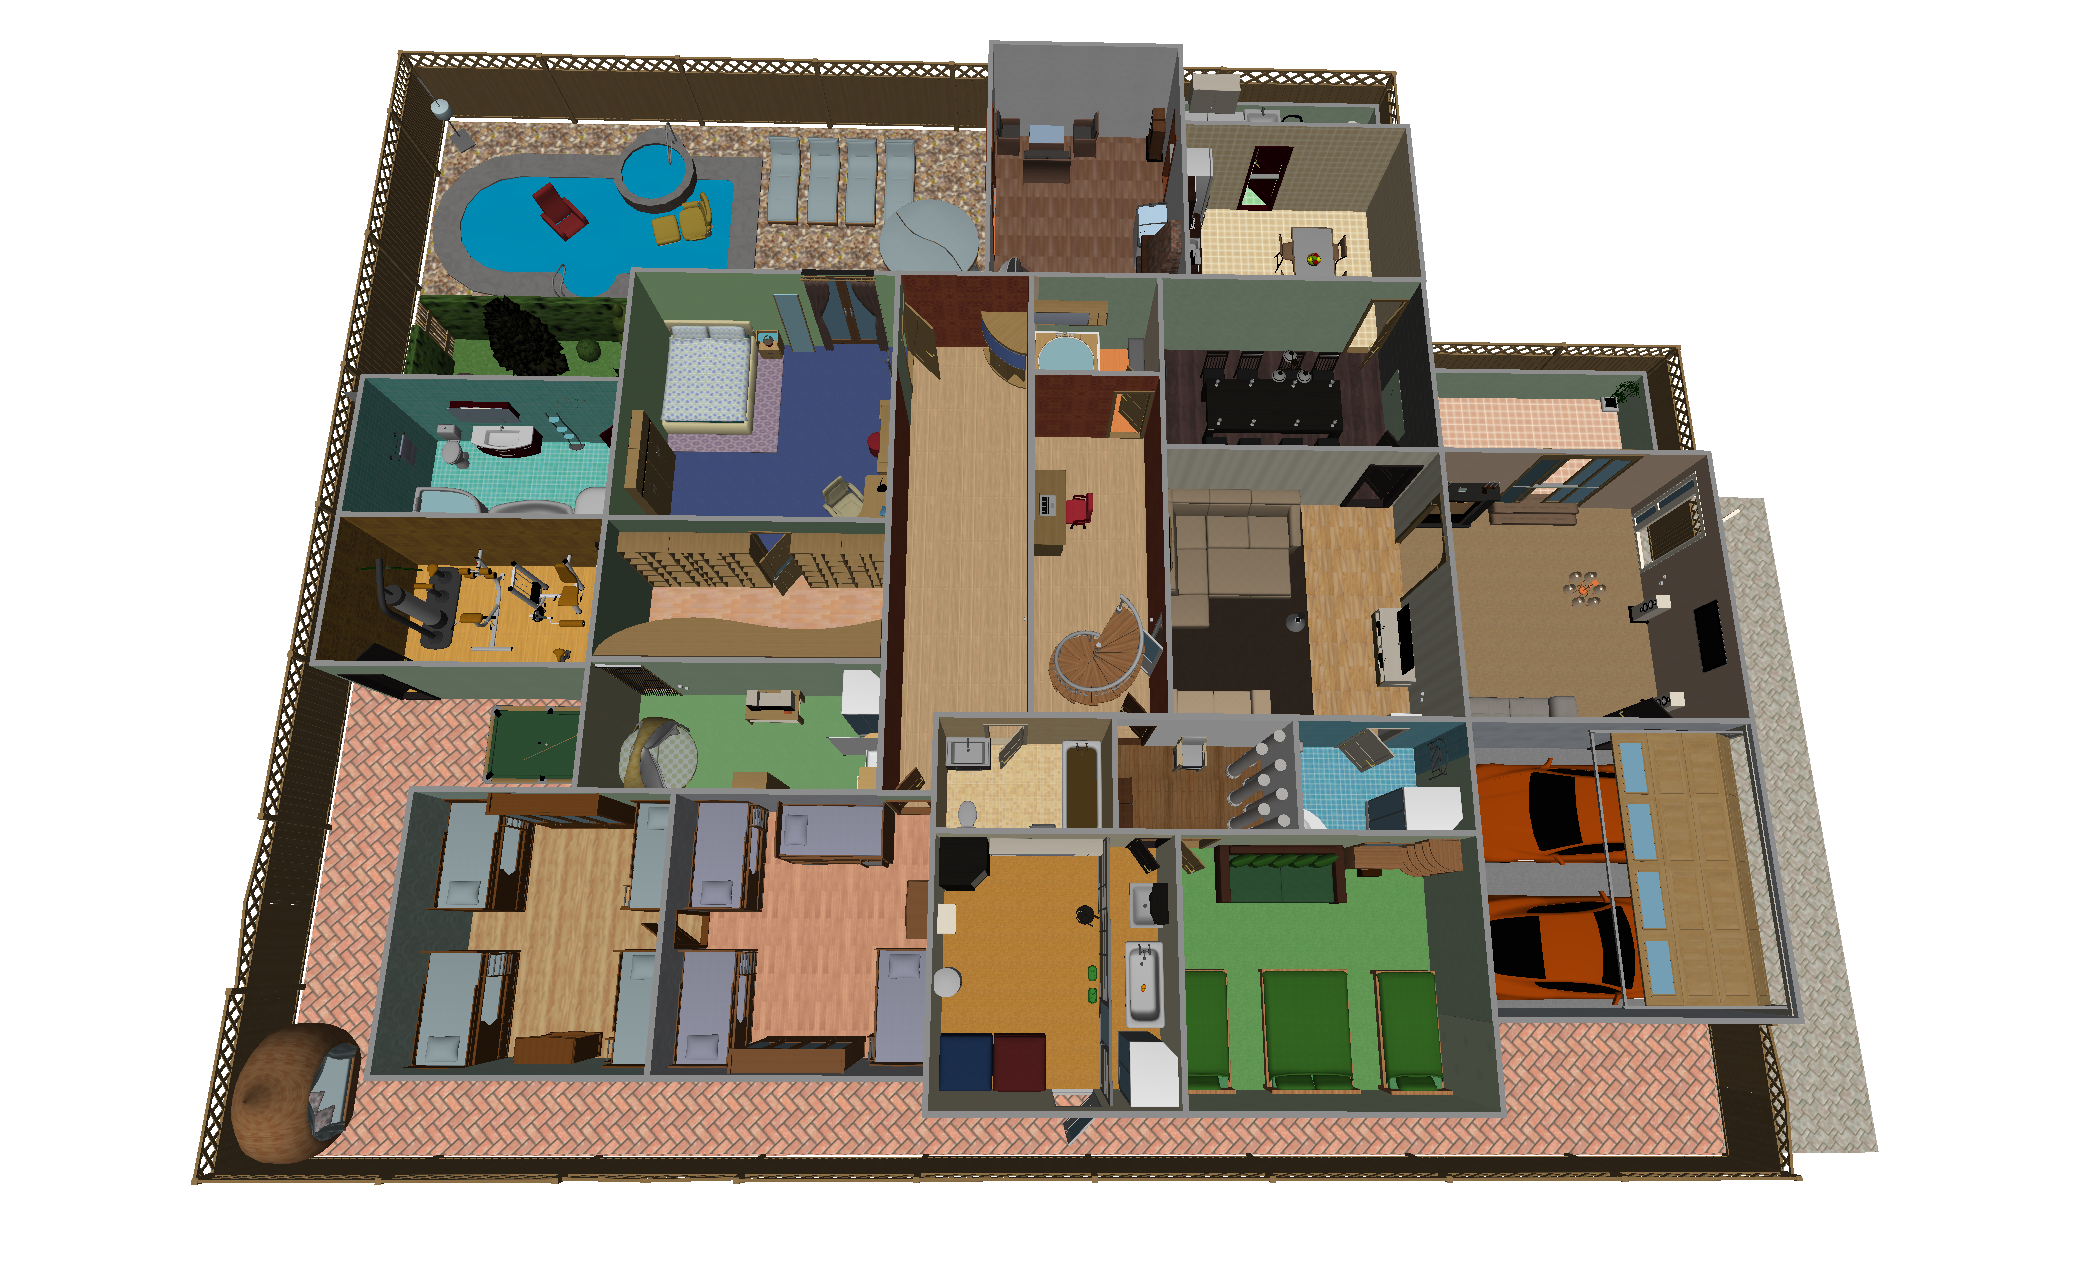
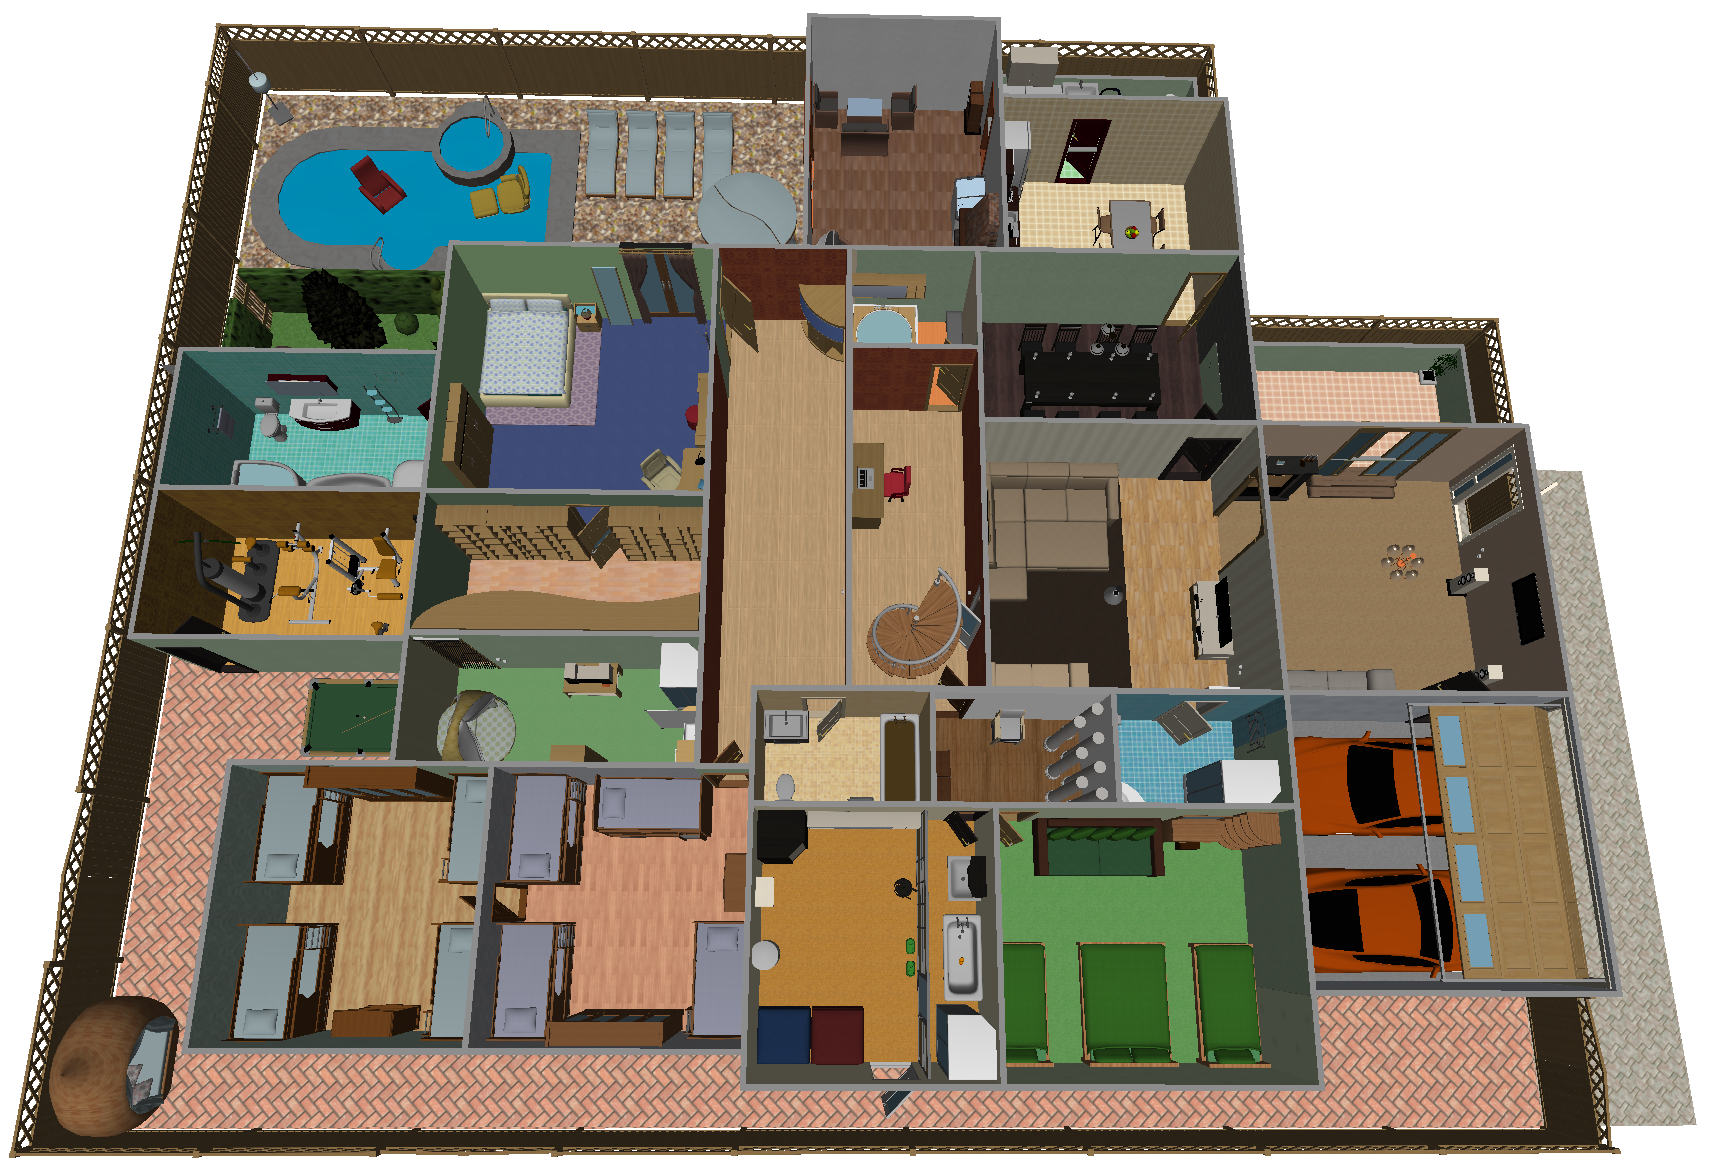
adjust res scene4 size

diff --git a/README.md b/README.md
@@ -32,31 +32,31 @@ Each intance is colorized by a random color, except blue denotes incorrect detec
 
 |Synthetic mesh  | Point Cloud   |
 | :-------------: | :-------------: |
-| ![Mesh1](./detect_res/1/mesh1.png)  | ![Pcl1](./detect_res/1/pcl1.png) |
+| ![Mesh1](./docs/detect_res/1/mesh1.png)  | ![Pcl1](./docs/detect_res/1/pcl1.png) |
 | **Ground truth** | **Detection** |
-| ![Gt1](./detect_res/1/gt1.png) | ![Det1](./detect_res/1/det1.png) | 
+| ![Gt1](./docs/detect_res/1/gt1.png) | ![Det1](./docs/detect_res/1/det1.png) | 
 
 # Scene 2
   
 |Synthetic mesh  | Point Cloud   |
 | :-------------: | :-------------: |
-| ![Mesh2](./detect_res/2/mesh2.png)  | ![Pcl2](./detect_res/2/pcl2.png)  |
+| ![Mesh2](./docs/detect_res/2/mesh2.png)  | ![Pcl2](./docs/detect_res/2/pcl2.png)  |
 | **Ground truth** | **Detection** |
-|![Gt2](./detect_res/2/gt2.png) | ![Det2](./detect_res/2/det2.png)   |
+|![Gt2](./docs/detect_res/2/gt2.png) | ![Det2](./docs/detect_res/2/det2.png)   |
 
 # Scene 3
   
 |Synthetic mesh  | Point Cloud   |
 | :-------------: | :-------------: |
-|  ![Mesh3](./detect_res/3/mesh3.png)   |![Pcl3](./detect_res/3/pcl3.png) |
+|  ![Mesh3](./docs/detect_res/3/mesh3.png)   |![Pcl3](./docs/detect_res/3/pcl3.png) |
 | **Ground truth** | **Detection** |
-| ![Gt3](./detect_res/3/gt3.png)  | ![Det3](./detect_res/3/det3.png) |
+| ![Gt3](./docs/detect_res/3/gt3.png)  | ![Det3](./docs/detect_res/3/det3.png) |
 
 # Scene 4
   
 |Synthetic mesh  | Point Cloud   |
 | :-------------: | :-------------: |
-|  ![Mesh4](./detect_res/4/mesh4.png)  | ![Pcl4](./detect_res/4/pcl4.png) |
+|  ![Mesh4](./docs/detect_res/4/mesh4.png)  | ![Pcl4](./docs/detect_res/4/pcl4.png) |
 | **Ground truth** | **Detection** |
-|![Gt4](./detect_res/4/gt4.png)  | ![Det4](./detect_res/4/det4.png)  |
+|![Gt4](./docs/detect_res/4/gt4.png)  | ![Det4](./docs/detect_res/4/det4.png)  |
 
